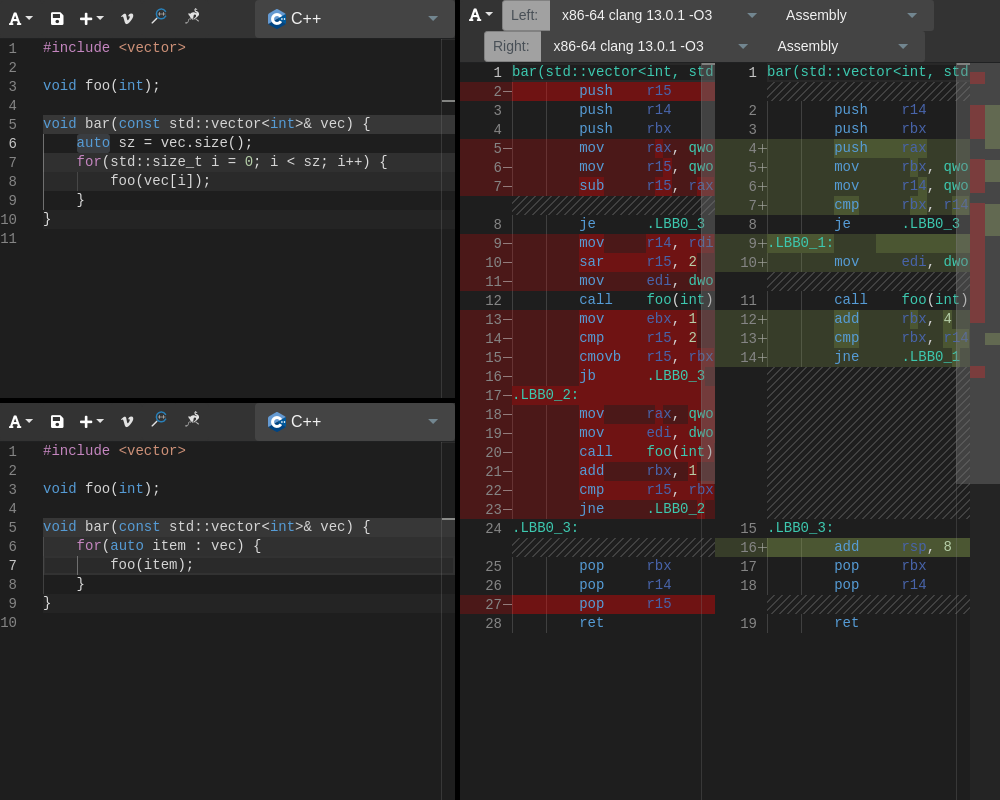
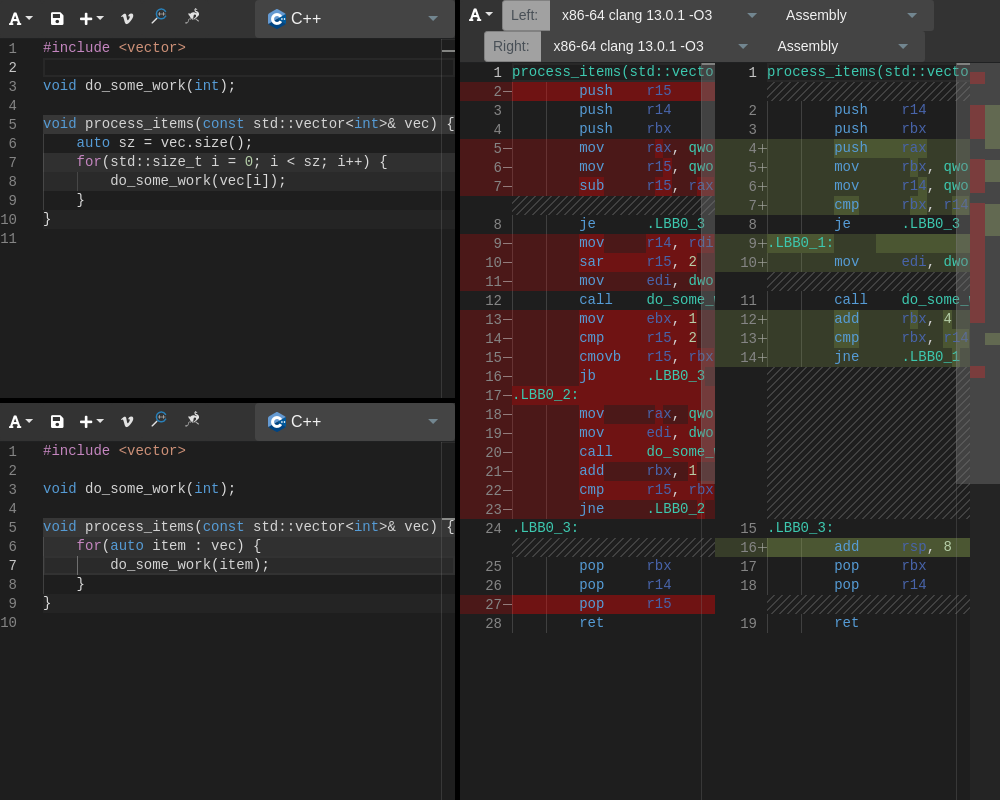
Updated site templates (#3767)
- Better naming of functions in existing templates
- Added LLVM Ir and Preprocessor templates
- Improved screenshot generation script
- Improved config file format (now the full URL can just be copied in instead of manually trimming the `https://godbolt.org/#`)
- Added `docs/AddingASiteTemplate.md`

diff --git a/etc/scripts/generate_site_template_screenshots.js b/etc/scripts/generate_site_template_screenshots.js
@@ -77,6 +77,19 @@ function partition(array, filter) {
     return [pass, fail];
 }
 
+async function PromisePoolExecutor(jobs, max_concurrency) {
+    async function worker(iterator) {
+        for(const [_, job] of iterator) {
+            await job();
+        }
+    }
+    const iterator = jobs.entries();
+    const workers = new Array(max_concurrency).fill(iterator).map(worker);
+    await Promise.allSettled(workers);
+}
+
+// end utils
+
 async function generate_screenshot(url, output_path, settings) {
     const browser = await puppeteer.launch({
         dumpio: true,
@@ -111,6 +124,7 @@ async function generate_screenshot(url, output_path, settings) {
             .split("\n")
             .filter(l => l !== "")
             .map(splitProperty)
+            .map(pair => [pair[0], pair[1].replace(/^https:\/\/godbolt.org\/#/, "")])
             .map(([name, data]) => [!name.startsWith("meta.") ? name.replaceAll(/[^a-z]/gi, "") : name, data]),
             ([name, _]) => name.startsWith("meta.")
         );
@@ -128,12 +142,12 @@ async function generate_screenshot(url, output_path, settings) {
     if(!fs.existsSync(output_dir)) {
         fs.mkdirSync(output_dir, { recursive: true });
     }
-    const promises = [];
+    const jobs = [];
     for(const [name, data] of templates) {
         for(const [theme, colourScheme] of themes) {
             const path = `${output_dir}/${name}.${theme}.png`;
             if(!fs.existsSync(path)) {
-                promises.push(generate_screenshot(
+                jobs.push(() => generate_screenshot(
                     `${godbolt}/e#${data}`,
                     path,
                     Object.assign(Object.assign({}, defaultSettings), {theme, colourScheme})
@@ -141,5 +155,6 @@ async function generate_screenshot(url, output_path, settings) {
             }
         }
     }
-    await Promise.all(promises);
+    // don't launch too many chrome instances concurrently
+    await PromisePoolExecutor(jobs, 4);
 })();

diff --git a/lib/handlers/site-templates.ts b/lib/handlers/site-templates.ts
@@ -54,7 +54,8 @@ export function loadSiteTemplates(configDir: string) {
             .readFileSync(configDir + '/site-templates.conf', 'utf-8')
             .split('\n')
             .filter(l => l !== '')
-            .map(splitProperty),
+            .map(splitProperty)
+            .map(pair => [pair[0], pair[1].replace(/^https:\/\/godbolt.org\/#/, '')]),
         ([name, _]) => name.startsWith('meta.'),
     );
     siteTemplates.meta = Object.fromEntries(meta);

diff --git a/test/handlers/site-templates-tests.js b/test/handlers/site-templates-tests.js
@@ -1,6 +1,6 @@
 import {assert} from 'chai';
 
-import {loadSiteTemplates, getSiteTemplates} from '../../lib/handlers/site-templates';
+import {getSiteTemplates, loadSiteTemplates} from '../../lib/handlers/site-templates';
 
 describe('Site Templates Backend', () => {
     before(() => {

diff --git a/docs/AddingASiteTemplate.md b/docs/AddingASiteTemplate.md
@@ -1,0 +1,31 @@
+# Adding a new site template
+
+Site templates are configured in [`etc/config/site-templates.conf`](../etc/config/site-templates.conf).
+
+The configuration format is `Template Name=Godbolt.org full link`.
+
+To create a site template:
+
+- Setup the template on [https://godbolt.org](https://godbolt.org)
+- Export with a full link from the "Share" dropdown in the top-right corner of the page
+- Add to the config file
+
+## Screenshot generation
+
+Below are instructions to generate site templates. Because it's a bit hacky feel free to not run the script, we can do
+so when a PR is made.
+
+Site template screenshots are generated with a hacky script located at
+[`etc/scripts/generate_site_template_screenshots.js`](../etc/scripts/generate_site_template_screenshots.js).
+
+To run the script, `cd` to the `etc/scripts/` directory and run
+
+```bash
+npm i puppeteer --no-save && node generate_site_template_screenshots.js
+```
+
+The script uses puppeteer and chrome to generate screenshots. The script will take a little while to run as it generates
+multiple screenshots per template and gives pages ample time to load.
+
+Screenshots are located in [`views/resources/template_screenshots/`](../views/resources/template_screenshots/). The
+script won't regenerate everything by default, to regenerate delete the screenshot images you want deleted.
